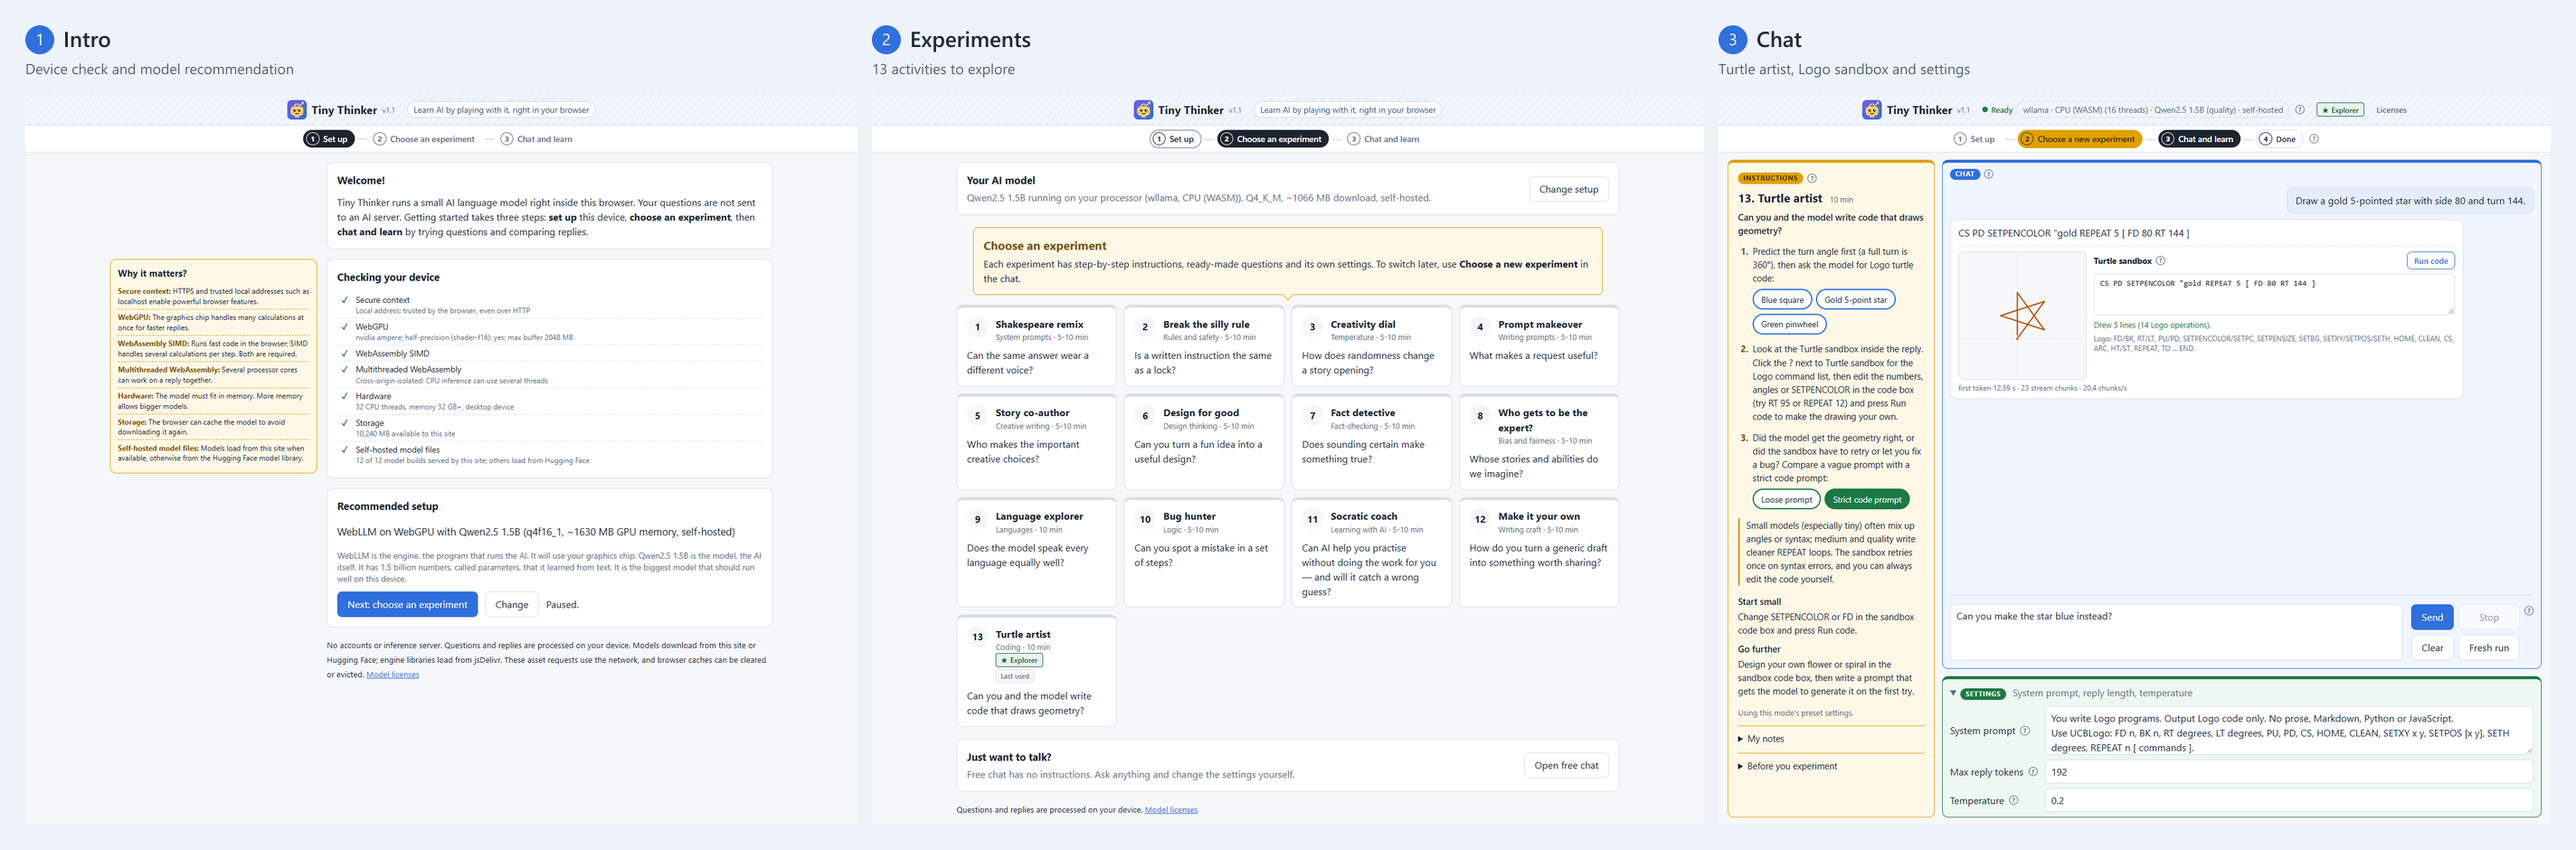
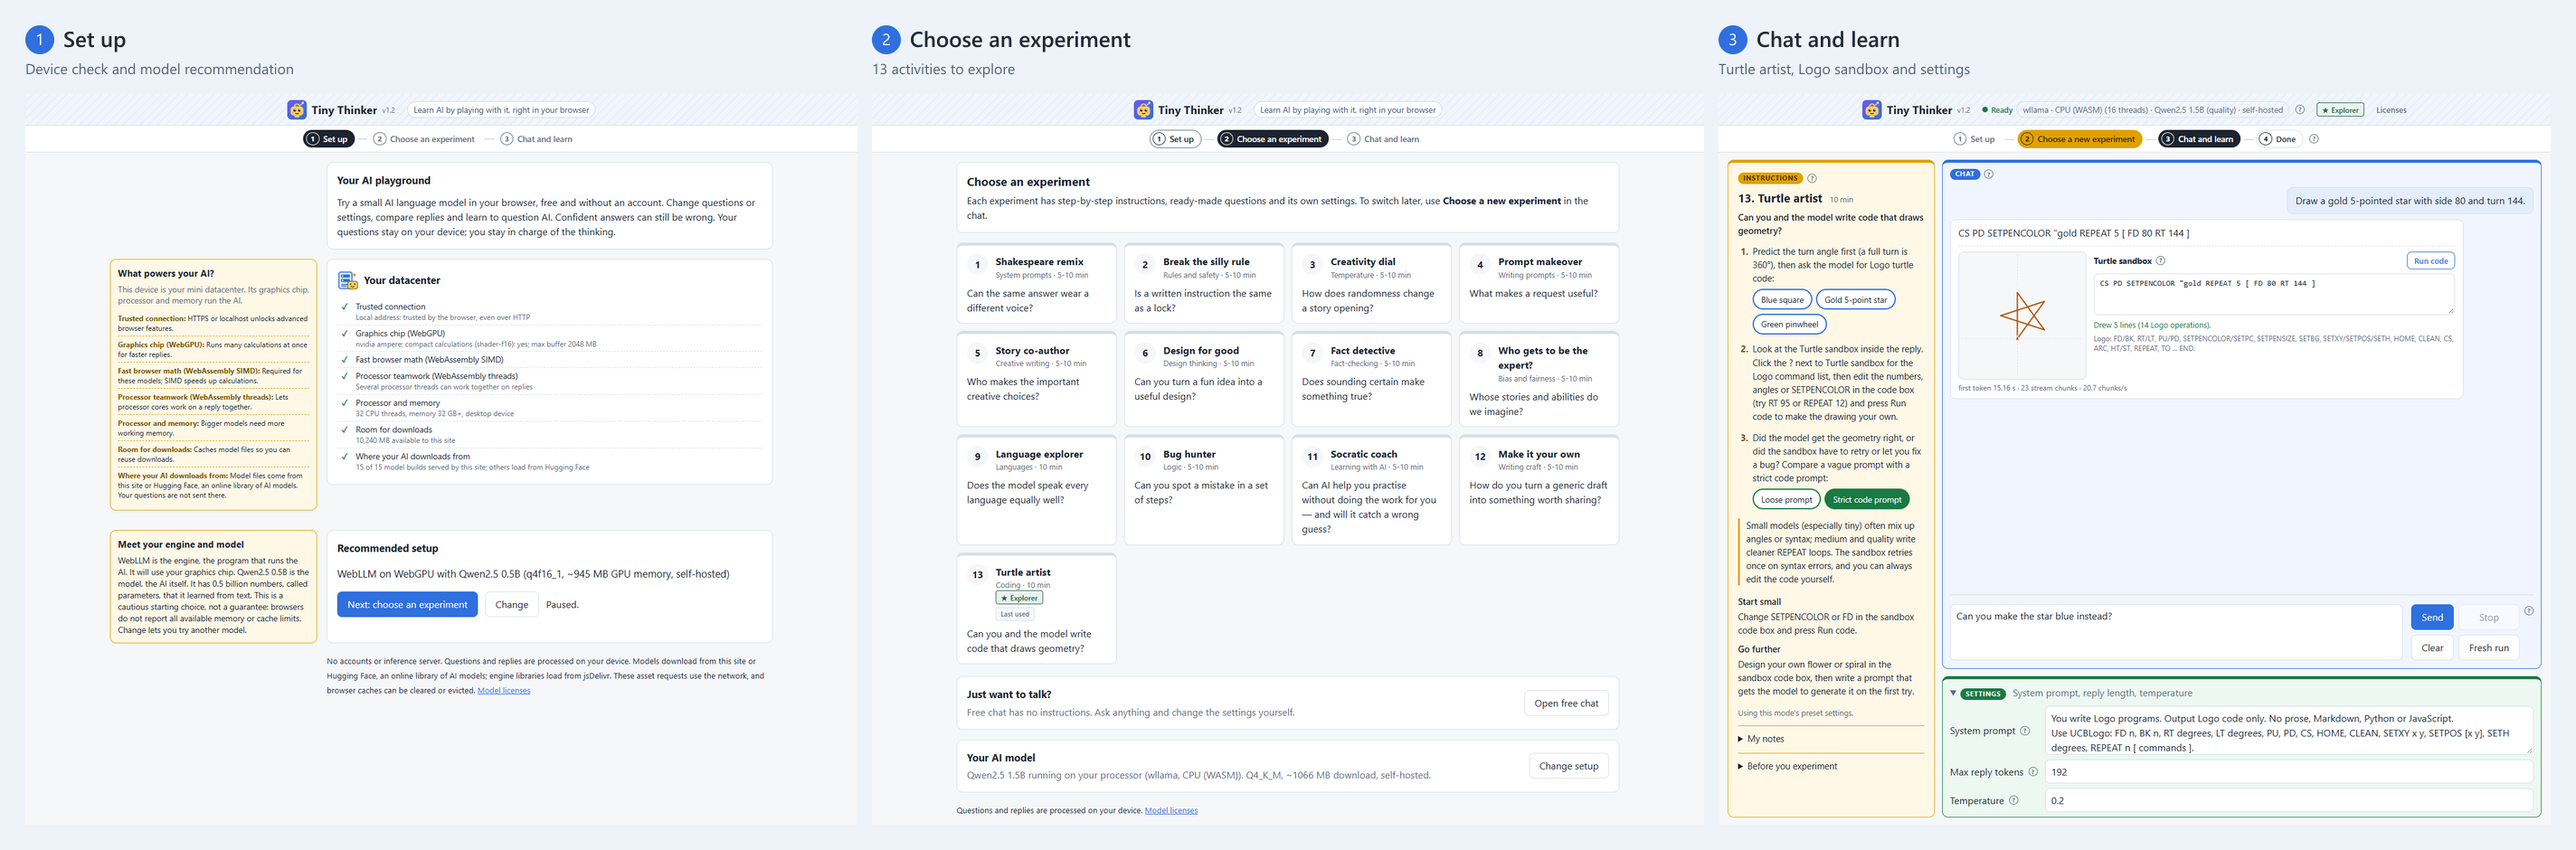
Fixes on experiment setup page

diff --git a/picker.js b/picker.js
@@ -39,6 +39,12 @@ export function renderExperimentCards(list, config, current) {
     card(activity, index + 1, `chat.html?${withExperiment(query, activity.id)}`, activity === current)));
 }
 
+export function renderSetupSummary(config) {
+  const engine = ENGINES[config.engine];
+  const model = describeModel(config);
+  $('setup-text').textContent = `${model.label} running on your ${config.engine === 'webllm' ? 'graphics chip' : 'processor'} (${engine.label}, ${engine.backend}). ${model.detail}.`;
+}
+
 /** Lists the experiments for the saved setup, or sends the student to the device check if there is none. */
 function main() {
   $('boot-warning').remove();
@@ -51,9 +57,7 @@ function main() {
   saveConfig(config);
   const query = configToQuery(config);
   const current = getExperiment(new URLSearchParams(location.search).get('experiment'));
-  const engine = ENGINES[config.engine];
-  const model = describeModel(config);
-  $('setup-text').textContent = `${model.label} running on your ${config.engine === 'webllm' ? 'graphics chip' : 'processor'} (${engine.label}, ${engine.backend}). ${model.detail}.`;
+  renderSetupSummary(config);
   $('free-chat').href = `chat.html?${query}`;
 
   function renderCards() {

diff --git a/chat.js b/chat.js
@@ -5,7 +5,7 @@ import { wireLicenseLinks } from './licenses.js?v=1.2';
 import { getExperiment, withExperiment, settingsMatch, describeChange, formatNotes, numberedTitle, EXPERIMENT_BADGES, experimentBadgeLevel, recordExperimentInteraction } from './experiments.js?v=1.2';
 import { extractTurtleCode, runTurtle, renderTurtleSvg } from './turtle.js?v=1.2';
 import { renderLoadingLessons } from './loading.js?v=1.2';
-import { renderExperimentCards } from './picker.js?v=1.2';
+import { renderExperimentCards, renderSetupSummary } from './picker.js?v=1.2';
 import { startTour } from './tour.js?v=1.2';
 import { el } from './dom.js?v=1.2';
 
@@ -430,6 +430,7 @@ function wireModes() {
     if (!visible) steps[2].setAttribute('aria-current', 'step');
     if (visible) {
       renderExperimentCards($('experiment-list'), config, activeActivity);
+      renderSetupSummary(config);
       $('free-chat').href = `chat.html?${configToQuery(config)}`;
       document.title = 'Choose an experiment - Tiny Thinker';
       $('pick-title').focus();

diff --git a/chat.html b/chat.html
@@ -71,6 +71,13 @@
       </div>
       <a id="free-chat" class="button" href="chat.html">Open free chat</a>
     </section>
+    <section class="panel setup-summary" aria-labelledby="setup-title">
+      <div>
+        <h2 id="setup-title">Your AI model</h2>
+        <p id="setup-text"></p>
+      </div>
+      <a id="change-setup" class="button" href="index.html?manual=1" data-leave>Change setup</a>
+    </section>
   </main>
 
   <main id="workspace" class="workspace">

diff --git a/README.md b/README.md
@@ -15,7 +15,7 @@ A static HTML/JavaScript playground with no build step or application backend. A
 
 ## In action
 
-![Horizontal three-panel overview of Tiny Thinker's new design: 1. Intro (device check and model recommendation), 2. Experiments (all 13 classroom activities and free chat), and 3. Chat (Turtle artist conversation with a gold five-point star, editable Logo code, instructions and settings).](docs/images/turtle-artist.png)
+![Horizontal three-panel overview of Tiny Thinker v1.2: 1. Set up (device checks, explanations and model recommendation), 2. Choose an experiment (all 13 classroom activities and free chat), and 3. Chat and learn (Turtle artist conversation with a gold five-point star, editable Logo code, instructions and settings).](docs/images/turtle-artist.png)
 
 **Three-step workflow (`Set up` -> `Choose an experiment` -> `Chat and learn`):** check the device and pick a model, choose one of the thirteen classroom experiments, then explore in the chat — shown here with **13. Turtle artist** running Qwen2.5 1.5B in the browser through the CPU engine.
 
